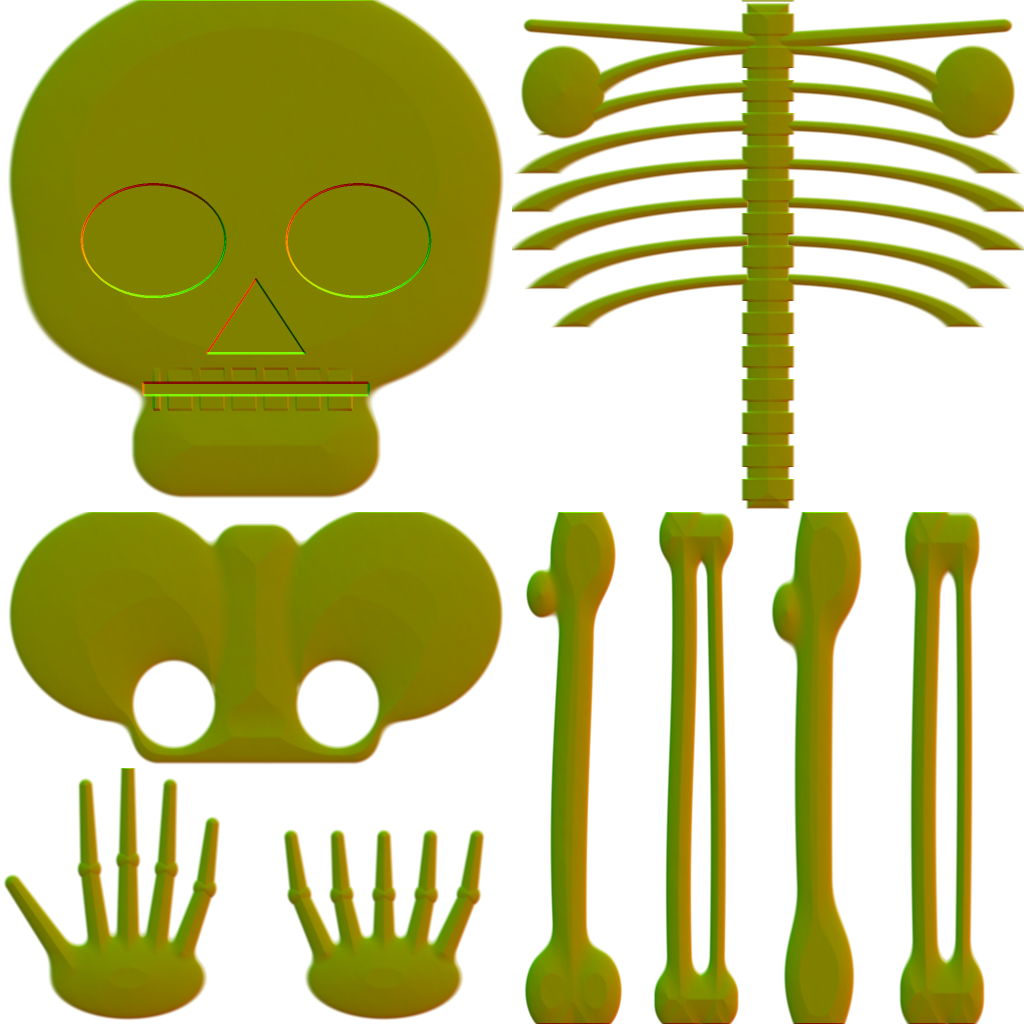
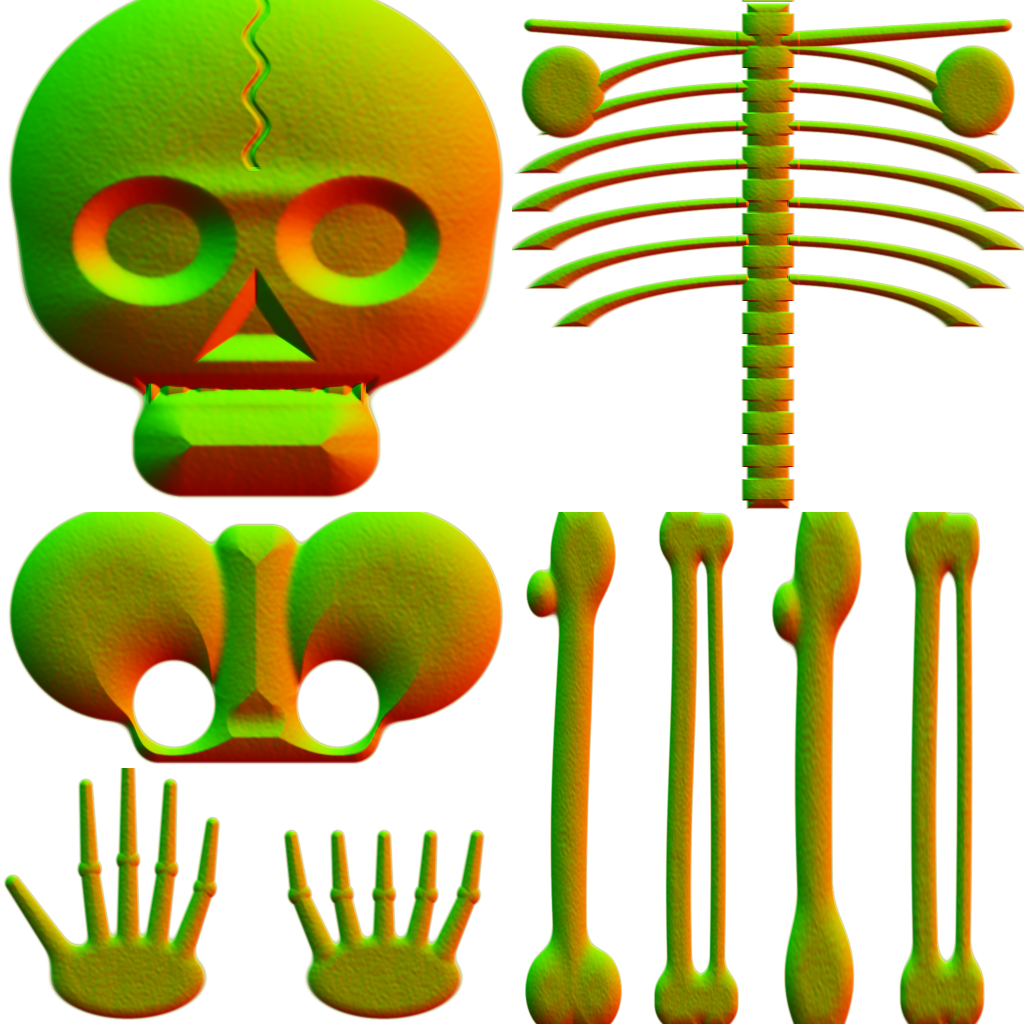
Halloween fase 24: esqueleto (17) y momia (12) con volumen
Atlas de huesos horneado con volumen real (tubos, craneo en domo,
cuencas hondas, dientes, sutura, vertebras; antes la normal era casi
plana) y luz de las baldosas desde abajo. En la momia cada venda es un
tubo que las antorchas marcan vuelta por vuelta. Mismo costo.

Claude-Session: https://claude.ai/code/session_01NVP2u1MWPb16oy8b6RCqty

diff --git a/td/tools/bake_plates_esqueleto.py b/td/tools/bake_plates_esqueleto.py
@@ -131,39 +131,85 @@ float pelvisB(vec2 q, float W, float L){
   return max(d,-holeA);
 }
 
-struct S { float d; float h; vec3 alb; };
+// ---------- HUESOS CON VOLUMEN (fase 24) ----------
+// Cada pieza: silueta 2D (las de arriba) inflada como un solido (perfil
+// redondo: tubo en los huesos largos y costillas, domo en el craneo) mas
+// el detalle tallado: cuencas hondas con borde, arco de las cejas, nariz,
+// dientes uno por uno, suturas, vertebras. La normal sale de esta altura
+// en unidades del mundo (antes era casi plana: x0.01).
+float inflate(float d, float r0){
+  float k=clamp(-d/r0,0.,1.);
+  return r0*sqrt(max(1.-(1.-k)*(1.-k),0.));
+}
+// altura, distancia y color de la pieza i en q (unidades de la pieza)
+vec3 boneH(int i, vec2 q, out vec3 alb, out float ao){
+  float W=BS[i].x, L=BS[i].y;
+  float d=1e3, hole=1e3, h=0.; alb=vec3(0.); ao=1.;
+  float r0=W*0.14;
+  if(i==0){ d=longBone(q,W,L,true); r0=W*0.15; }
+  else if(i==1){ d=twoBones(q,W,L); r0=W*0.08; }
+  else if(i==2){ d=longBone(q,W,L,false); r0=W*0.15; }
+  else if(i==3){ d=twoBones(q,W,L); r0=W*0.08; }
+  else if(i==4||i==5){ d=handB(q,W,L,i==5); r0=W*0.045; }
+  else if(i==6){ d=skullB(q,W,L,hole); r0=W*0.34; }
+  else if(i==7){ d=ribsB(q,W,L); r0=W*0.035; }
+  else { d=pelvisB(q,W,L); r0=W*0.12; }
+  if(d>=0.) return vec3(d,0.,1e3);
+  h=inflate(d,r0);
+  float st=fbm(q*vec2(60.,40.)+float(i),4);
+  vec3 bone=mix(vec3(0.62,0.57,0.46),vec3(0.80,0.76,0.64),st);
+  bone=mix(bone,vec3(0.35,0.28,0.18),smoothstep(0.62,0.8,fbm(q*14.+float(i)*3.,4))*0.6);
+  h+=(st-0.5)*0.0015+(gn(q*300.)-0.5)*0.0006;                 // poros
+  if(i==6){
+    vec2 c=q-vec2(0.,L*0.55);
+    // arco de las cejas y pomulos
+    h+=0.010*exp(-pow((c.y-L*0.07)/(L*0.04),2.))*smoothstep(W*0.40,W*0.05,abs(c.x));
+    h+=0.008*exp(-dot((vec2(abs(c.x),c.y)-vec2(W*0.30,-L*0.14))/vec2(W*0.10,L*0.06),(vec2(abs(c.x),c.y)-vec2(W*0.30,-L*0.14))/vec2(W*0.10,L*0.06)));
+    // sutura del craneo
+    float sut=abs(c.x+0.004*sin(c.y*180.))-0.0012;
+    if(c.y>L*0.12){ h-=0.003*smoothstep(0.002,0.,sut); bone*=1.-0.35*smoothstep(0.002,0.,sut); }
+    // cuencas, nariz y boca: hondas, con borde que baja
+    if(hole<0.02){
+      float dep=smoothstep(0.006,-0.012,hole);
+      h-=0.045*dep;
+      bone=mix(bone,vec3(0.035,0.025,0.018),smoothstep(0.003,-0.008,hole));
+      ao=mix(1.,0.2,dep);
+    }
+    // dientes: cada uno un bulto con su separacion
+    if(abs(q.y-L*0.24)<L*0.045&&abs(q.x)<W*0.21){
+      float tx=fract(q.x/W*16.);
+      float tooth=smoothstep(0.0,0.25,tx)*smoothstep(1.0,0.75,tx);
+      float ty=1.-pow(abs(q.y-L*0.24)/(L*0.045),2.);
+      h=max(h,inflate(-0.01,0.01)+0.01*tooth*ty);
+      bone=mix(vec3(0.05,0.035,0.025),vec3(0.80,0.76,0.62),tooth*smoothstep(0.,0.3,ty));
+      ao=mix(0.4,1.,tooth);
+    }
+  }
+  if(i==7){
+    // vertebras: discos con separacion
+    if(abs(q.x)<W*0.06){ float v=fract(q.y*28.); h+=0.004*sin(v*3.14); bone*=0.8+0.2*sin(v*3.14); }
+  }
+  // oclusion general: lo fino y los bordes reciben menos luz
+  ao*=mix(0.55,1.,clamp(-d/r0,0.,1.));
+  alb=bone*ao;
+  return vec3(d,h,hole);
+}
+struct S { float d; vec3 n; vec3 alb; };
 S bones(vec2 uv){
-  S s; s.d=1e3; s.h=0.; s.alb=vec3(0.);
+  S s; s.d=1e3; s.n=vec3(0.,0.,1.); s.alb=vec3(0.);
   for(int i=0;i<9;i++){
     vec4 r=BR[i];
     if(uv.x<r.x||uv.y<r.y||uv.x>r.x+r.z||uv.y>r.y+r.w) continue;
-    vec2 lu=(uv-r.xy)/r.zw;                     // 0..1 en la pieza
+    vec2 lu=(uv-r.xy)/r.zw;
     vec2 q=vec2((lu.x-0.5)*BS[i].x, lu.y*BS[i].y);
-    float W=BS[i].x, L=BS[i].y;
-    float d=1e3, hole=1e3;
-    if(i==0) d=longBone(q,W,L,true);
-    else if(i==1) d=twoBones(q,W,L);
-    else if(i==2) d=longBone(q,W,L,false);
-    else if(i==3) d=twoBones(q,W,L);
-    else if(i==4) d=handB(q,W,L,false);
-    else if(i==5) d=handB(q,W,L,true);
-    else if(i==6) d=skullB(q,W,L,hole);
-    else if(i==7) d=ribsB(q,W,L);
-    else d=pelvisB(q,W,L);
-    s.d=d;
-    if(d<0.){
-      float dep=clamp(-d/(W*0.12),0.,1.);
-      s.h=sqrt(dep)*0.5;
-      float st=fbm(q*vec2(60.,40.)+float(i),4);
-      vec3 bone=mix(vec3(0.62,0.57,0.46),vec3(0.80,0.76,0.64),st);
-      bone=mix(bone,vec3(0.35,0.28,0.18),smoothstep(0.62,0.8,fbm(q*14.+float(i)*3.,4))*0.6);   // manchas viejas
-      s.alb=bone;
-      s.h+=st*0.04;
-      if(hole<0.){ s.alb=vec3(0.02,0.015,0.012); s.h=-0.2; }
-      if(i==6){
-        float teeth=step(abs(q.y-L*0.24),L*0.04)*step(abs(q.x),W*0.2)*step(0.25,fract(q.x/W*16.));
-        if(teeth>0.5&&hole>=0.){ s.alb=vec3(0.78,0.74,0.62); s.h=0.35; }
-      }
+    vec3 a; float ao;
+    vec3 c=boneH(i,q,a,ao);
+    s.d=c.x; s.alb=a;
+    if(c.x<0.){
+      float e=0.0012; vec3 a2; float o2;
+      float hx=boneH(i,q+vec2(e,0.),a2,o2).y-boneH(i,q-vec2(e,0.),a2,o2).y;
+      float hy=boneH(i,q+vec2(0.,e),a2,o2).y-boneH(i,q-vec2(0.,e),a2,o2).y;
+      s.n=normalize(vec3(-hx/(2.*e),-hy/(2.*e),1.));
     }
     return s;
   }
@@ -225,11 +271,7 @@ void main(){
   S s=bones(p);
   float a=smoothstep(0.0015,-0.0015,s.d);
   if(plate==2){ fc=vec4(pow(clamp(s.alb*2.,0.,1.),vec3(1./2.2)), a); return; }
-  float e=0.0012;
-  float hx=bones(p+vec2(e,0.)).h-bones(p-vec2(e,0.)).h;
-  float hy=bones(p+vec2(0.,e)).h-bones(p-vec2(0.,e)).h;
-  vec3 n=normalize(vec3(-hx/(2.*e)*0.01,-hy/(2.*e)*0.01,1.));
-  fc=vec4(n.xy*0.5+0.5,0.,a);
+  fc=vec4(s.n.xy*0.5+0.5,0.,a);
 }
 """
 

diff --git a/docs/53_SETS_Y_HALLOWEEN.md b/docs/53_SETS_Y_HALLOWEEN.md
@@ -514,3 +514,11 @@ Mapa de alturas horneado (`height()` en `bake_plates_reloj.py`, lámina `4_relie
 - **el resplandor de la esfera ilumina la piedra que la rodea**: en el clímax el rojo marca cada junta y el bisel.
 
 **Costo:** igual que antes en el banco de prueba. **Reconstruir Todo:** lámina nueva.
+
+## Fase 24: momia y esqueleto con volumen (escenas 12 y 17)
+
+![Antes y ahora](img/momia_esqueleto_2d_vs_3d.jpg)
+
+- **Esqueleto (17):** el atlas de huesos (`bake_plates_esqueleto.py`, láminas `3_huesos_color` y `4_huesos_relieve`) se hornea con volumen real: huesos largos y costillas redondeados como tubos, cráneo en domo con pómulos, arco de las cejas, cuencas y nariz hondas con borde, dientes uno por uno, sutura y vértebras; la oclusión va en el color. Antes el relieve era casi plano (la normal se escalaba x0,01). En vivo, además, **las baldosas encendidas lo iluminan desde abajo** (D6, el bajo y la ola del clímax).
+- **Momia (12):** cada venda es un tubo: el canto de arriba mira hacia arriba y el de abajo hacia abajo, con los cantos más oscuros; las antorchas marcan cada vuelta.
+- **Costo:** igual que antes en el banco de prueba. **Reconstruir Todo:** cambiaron las láminas de la 17.

diff --git a/CLAUDE.md b/CLAUDE.md
@@ -36,3 +36,4 @@ Trabajar en una rama; hacer **commit y push**. Desde el 21 de octubre de 2026: *
 - **Fase 21** (rama `claude/halloween-f21-calabazas-3d`, sobre f20): calabaza 3D (01 y 13) y tallado con grosor en la 01. Plan de fases 22–28 (3D): 22 mansión, 23 reloj, 24 momia+esqueleto, 25 bosque+fantasmas, 26 castillo+tormenta, 27 manos+túnel, 28 velas+caldero(+sábanas morgue).
 - **Fase 22** (rama `claude/halloween-f22-mansion-3d`, sobre f21): relieve de la fachada de la mansión (26) con luz en vivo.
 - **Fase 23** (rama `claude/halloween-f23-reloj-3d`, sobre f22): relieve de la torre y la esfera del reloj (27).
+- **Fase 24** (rama `claude/halloween-f24-momia-esqueleto-3d`, sobre f23): huesos con volumen (17) y vendas como tubos (12).
